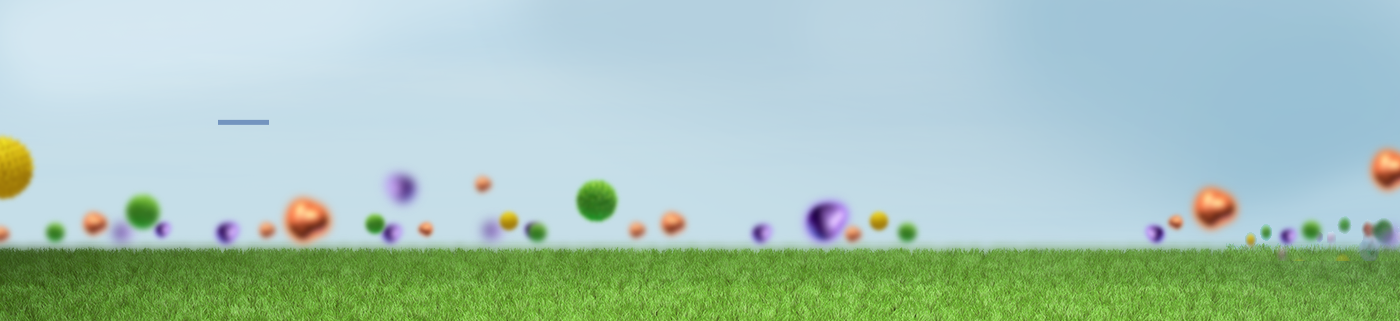
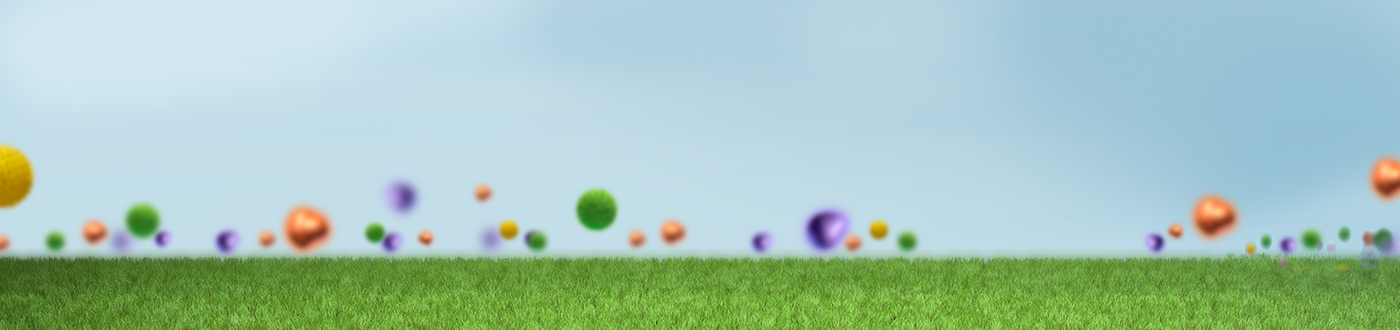
Work In Process

diff --git a/app/css/sections/_nasacort-difference.scss b/app/css/sections/_nasacort-difference.scss
@@ -1,31 +1,14 @@
-
 .nasacort-difference-section {
 
-
-
   .hero-banner {
-    background:url("../img/desktop/nasacort-difference/hero-difference.png") no-repeat top center;
-
+    background:url(../img/desktop/nasacort-difference/hero-difference.png) no-repeat top center;
+    .underlined{
+      background-color:#7394BF;
+    }
   }
-
-
-
-  //.content {
-  //  max-width: 1400px;
-  //  margin: auto;
-  //}
-
-
-  .textbox, .textbox-allergy {
-    max-width: 960px;
-    margin: auto;
-
-
-  }
-
 
   .textbox p {
-    width: 100%;
+    // width: 100%;
   }
 
 
@@ -36,7 +19,7 @@
 
 
   .textbox-allergy {
-    width: 80%
+    // width: 80%
   }
 
 
@@ -44,11 +27,25 @@
 
 
   .treatments {
-    position: relative;
+    height: auto;
+    // max-width: 1400px;
+    margin: auto;
+    // position: relative;
+    .textbox-allergy{
+      margin-left:#{fluid-percentage($site-max-width, 213)};
+      margin-right:#{fluid-percentage($site-max-width, 213)};
+    }
+    
   }
 
+  
+  .comparing{
+    height: auto;
+    // max-width: 1400px;
+    margin: auto;
+  }
   .treatments h2 {
-    margin-top: 39px;
+    // margin-top: 39px;
   }
 
 
@@ -77,46 +74,58 @@
   .comparing {
     background-color: $color-blue-light-container;
     padding-top: 45px;
+    .textbox{
+      margin-left:#{fluid-percentage($site-max-width, 213)};
+      margin-right:#{fluid-percentage($site-max-width, 213)};
+      h2 {
+        margin-top: 0;
+      }
 
-    h2 {
-      margin-top: 0;
+      h3 {
+        font-family: $font-proxima-nova-bold;
+        color: #022E80;
+        font-size: 25px;
+        text-transform: none;
+        padding-top: 15px;
+      }
     }
-
-    h3 {
-      font-family: $font-proxima-nova-bold;
-      color: #022E80;
-      font-size: 25px;
-      text-transform: none;
-      padding-top: 15px;
-    }
-
-
   }
 
-  //.banner {
-  //  margin: 0;
-  //  background: url(../img/desktop/nasacort-difference/hero-difference.png) no-repeat top center;
-  //  background-size: cover;
-  //  height: 328px;
-  //
-  //  div {
-  //    margin-left: 15.5%;
-  //    // margin-top: 60px;
-  //  }
-  //
-  //  h1 {
-  //    margin: 0;
-  //
-  //    sup {
-  //      position: relative;
-  //      top: -16px;
-  //      font-size: 31px;
-  //    }
-  //
-  //  }
-  //
-  //}
-  //
+  .options{
+    .textbox{
+      margin-left:#{fluid-percentage($site-max-width, 213)};
+      margin-right:#{fluid-percentage($site-max-width, 213)};
+    }
+  }
+  
+
+
+
+
+  // .banner {
+  //   margin: 0;
+  //   background: url(../img/desktop/nasacort-difference/hero-difference.png) no-repeat top center;
+  //   background-size: cover;
+  //   height: 328px;
+
+  //   div {
+  //     margin-left: 15.5%;
+  //     // margin-top: 60px;
+  //   }
+
+  //   h1 {
+  //     margin: 0;
+
+  //     sup {
+  //       position: relative;
+  //       top: -16px;
+  //       font-size: 31px;
+  //     }
+
+  //   }
+
+  // }
+
 
 
 
@@ -128,6 +137,7 @@
   margin: auto;
   width: 100%;
   height: 278px;
+
 
 }
 
